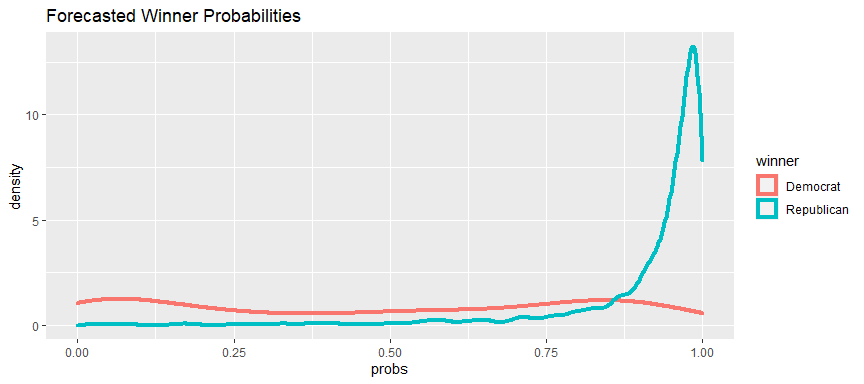
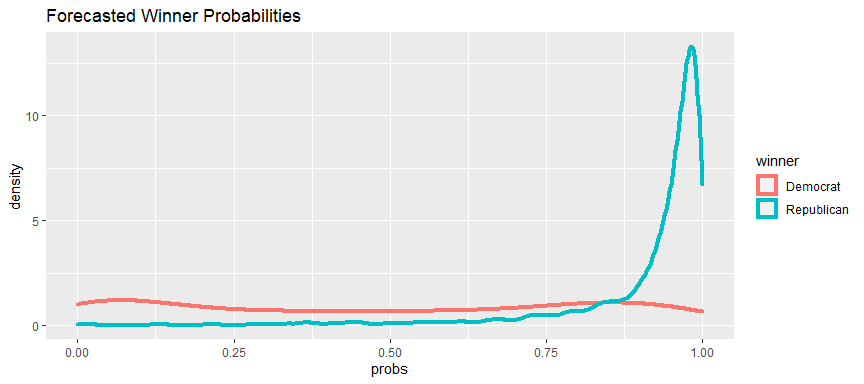
Changed some variables

diff --git a/Abizer.md b/Abizer.md
@@ -36,17 +36,20 @@ rooms. Also any person may choose to live in a house for several years
 because it might be closer to work, family etc. We don’t think that it
 suggests anything about the voter.
 
+percent_change_in_pop, , percent_change_in_pop
+
 ``` r
 > library(plyr)
+> 
 > train1 <- train %>% plyr::rename(c("RTN130207"="Retail_Sales_07","INC910213"="Income_per_capita","HSG096213"="Percent_multi_unit_housing","POP715213"="Percent_living_in_same_house_multiple_years","HSG495213"="Median_house_value","POP815213"="Spoken_non_english_lang","EDU635213"="Percent_Highschool_grad","EDU685213"="Percent_Undergrad","AGE295214"="percent_under_18","AGE775214"="percent_over_65","PST120214"="percent_change_in_pop"))
 > 
 > test1 <- test %>% plyr::rename(c("RTN130207"="Retail_Sales_07","INC910213"="Income_per_capita","HSG096213"="Percent_multi_unit_housing","HSG495213"="Median_house_value","POP815213"="Spoken_non_english_lang","EDU635213"="Percent_Highschool_grad","POP715213"="Percent_living_in_same_house_multiple_years","EDU685213"="Percent_Undergrad","AGE295214"="percent_under_18","AGE775214"="percent_over_65","PST120214"="percent_change_in_pop")) 
 > 
-> Train1 <- train1 %>% select(Retail_Sales_07, Income_per_capita, Median_house_value, Spoken_non_english_lang, Percent_Highschool_grad, Percent_Undergrad,  percent_under_18, percent_over_65, percent_change_in_pop,winner)
+> Train1 <- train1 %>% select(Retail_Sales_07, Income_per_capita, Median_house_value,Percent_multi_unit_housing, Spoken_non_english_lang, Percent_Undergrad,  Percent_living_in_same_house_multiple_years, percent_over_65, winner)
 > 
-> Test1 <- test1 %>% select(Retail_Sales_07, Income_per_capita, Median_house_value, Spoken_non_english_lang, Percent_Highschool_grad, Percent_Undergrad,  percent_under_18, percent_over_65, percent_change_in_pop)
+> Test1 <- test1 %>% select(Retail_Sales_07, Income_per_capita, Median_house_value, Spoken_non_english_lang, Percent_multi_unit_housing,Percent_living_in_same_house_multiple_years, Percent_Undergrad, percent_over_65)
 > 
-> xvars <- str_c(names(Train1)[1:9], collapse="+")
+> xvars <- str_c(names(Train1)[1:8], collapse="+")
 > myform <- as.formula(str_c("winner ~ ", xvars))
 > 
 > winner.glm <- glm(myform, data = Train1, family = binomial)
@@ -58,28 +61,37 @@ glm(formula = myform, family = binomial, data = Train1)
 
 Deviance Residuals: 
     Min       1Q   Median       3Q      Max  
--3.0409   0.1223   0.2359   0.3907   4.5720  
+-3.1047   0.1350   0.2449   0.3853   3.3755  
 
 Coefficients:
-                          Estimate Std. Error z value Pr(>|z|)    
-(Intercept)             -9.569e+00  1.492e+00  -6.413 1.43e-10 ***
-Retail_Sales_07         -2.093e-07  3.216e-08  -6.508 7.64e-11 ***
-Income_per_capita        2.643e-04  3.059e-05   8.638  < 2e-16 ***
-Median_house_value      -1.381e-05  1.856e-06  -7.439 1.01e-13 ***
-Spoken_non_english_lang -3.201e-02  6.960e-03  -4.599 4.24e-06 ***
-Percent_Highschool_grad  7.551e-02  1.761e-02   4.288 1.80e-05 ***
-Percent_Undergrad       -1.959e-01  1.810e-02 -10.823  < 2e-16 ***
-percent_under_18         1.186e-01  2.902e-02   4.085 4.40e-05 ***
-percent_over_65          1.733e-01  2.713e-02   6.389 1.67e-10 ***
-percent_change_in_pop    2.001e-01  2.664e-02   7.510 5.93e-14 ***
+                                              Estimate Std. Error z value
+(Intercept)                                  1.399e+01  1.907e+00   7.335
+Retail_Sales_07                             -1.057e-07  2.928e-08  -3.611
+Income_per_capita                            3.677e-04  3.074e-05  11.960
+Median_house_value                          -1.309e-05  1.735e-06  -7.549
+Percent_multi_unit_housing                  -1.132e-01  1.292e-02  -8.760
+Spoken_non_english_lang                     -3.838e-02  6.343e-03  -6.051
+Percent_Undergrad                           -1.608e-01  1.665e-02  -9.655
+Percent_living_in_same_house_multiple_years -1.610e-01  2.208e-02  -7.291
+percent_over_65                              3.415e-02  2.085e-02   1.638
+                                            Pr(>|z|)    
+(Intercept)                                 2.22e-13 ***
+Retail_Sales_07                             0.000305 ***
+Income_per_capita                            < 2e-16 ***
+Median_house_value                          4.40e-14 ***
+Percent_multi_unit_housing                   < 2e-16 ***
+Spoken_non_english_lang                     1.44e-09 ***
+Percent_Undergrad                            < 2e-16 ***
+Percent_living_in_same_house_multiple_years 3.08e-13 ***
+percent_over_65                             0.101423    
 ---
 Signif. codes:  0 '***' 0.001 '**' 0.01 '*' 0.05 '.' 0.1 ' ' 1
 
 (Dispersion parameter for binomial family taken to be 1)
 
     Null deviance: 2120.3  on 2488  degrees of freedom
-Residual deviance: 1204.7  on 2479  degrees of freedom
-AIC: 1224.7
+Residual deviance: 1229.9  on 2480  degrees of freedom
+AIC: 1247.9
 
 Number of Fisher Scoring iterations: 6
 ```
@@ -96,8 +108,8 @@ and recall for the model. Then, we created a double density curve
 > test <- test1 %>% mutate(probs = predict(winner.glm, newdata = test1, type = "response"),prediction = ifelse(probs >= 0.05,"Republican","Democrat"))
 > 
 > train %>% summarize(accuracy = mean(winner == prediction), precision = sum(winner == "Republican" & prediction == "Republican")/sum(prediction == "Republican"), recall = sum(winner == "Republican" & prediction == "Republican")/sum(winner == "Republican"))
-   accuracy precision    recall
-1 0.8734431 0.8713813 0.9981052
+  accuracy precision    recall
+1 0.870229 0.8685078 0.9981052
 > 
 > ggplot(train,aes(x = probs, color = winner)) + geom_density(size = 1.5) + ggtitle("Forecasted Winner Probabilities ")
 ```
@@ -132,9 +144,8 @@ a 0.05 threshold
 > set.seed(5)
 > cost <- function(y, pi) 1-mean(y==(pi>0.05))
 > train_error <- cv.glm(data = Train1, winner.glm,cost,5)
-Warning: glm.fit: fitted probabilities numerically 0 or 1 occurred
 > train_error$delta[1]
-[1] 0.1289675
+[1] 0.129771
 ```
 
 The error is 0.13
@@ -157,10 +168,10 @@ and error for the training data predictions
 > 
 > train3 %>% summarize(accuracy = mean(winner == prediction), precision = sum(winner == "Republican" & prediction == "Republican")/sum(prediction == "Republican"), recall = sum(winner == "Republican" & prediction == "Republican")/sum(winner == "Republican"), error = 1-accuracy)
    accuracy precision    recall      error
-1 0.9067899 0.9284086 0.9644718 0.09321012
+1 0.9063881 0.9275956 0.9649455 0.09361189
 ```
 
-The error is 0.0932 and the accuracy is 0.907
+The error is 0.0936 and the accuracy is 0.907
 
 Here, we used the k nearest neighbours model with k = 10. We then
 compute the accuracy, precision, recall and error for the model K-nn
@@ -178,12 +189,12 @@ compute the accuracy, precision, recall and error for the model K-nn
 > testX <- Test1 %>% slice(-train_index) 
 > 
 > dim(trainX)
-[1] 1991    9
+[1] 1991    8
 > dim(testX)
-[1] 123   9
+[1] 123   8
 > winner_knn <- knn(trainX,testX,cl = train$winner[train_index],k=10)
 > 
-> winner_knn.cv <- knn.cv(Train1[,c("Retail_Sales_07", "Income_per_capita", "Median_house_value", "Spoken_non_english_lang", "Percent_Highschool_grad", "Percent_Undergrad",  "percent_under_18", "percent_over_65", "percent_change_in_pop")],cl = Train1$winner,k=10)
+> winner_knn.cv <- knn.cv(Train1[,c("Retail_Sales_07", "Income_per_capita", "Median_house_value","Percent_multi_unit_housing", "Spoken_non_english_lang", "Percent_Undergrad",  "Percent_living_in_same_house_multiple_years", "percent_over_65")],cl = Train1$winner,k=10)
 > 
 > train_knn <- data_frame(y = Train1$winner, prediction = winner_knn.cv) 
 > 
@@ -192,4 +203,4 @@ compute the accuracy, precision, recall and error for the model K-nn
 1 0.8682202  0.882126 0.9748934 0.1317798
 ```
 
-Error is 0.132 and accuracy is 0.868
+Error is 0.131 and accuracy is 0.868
